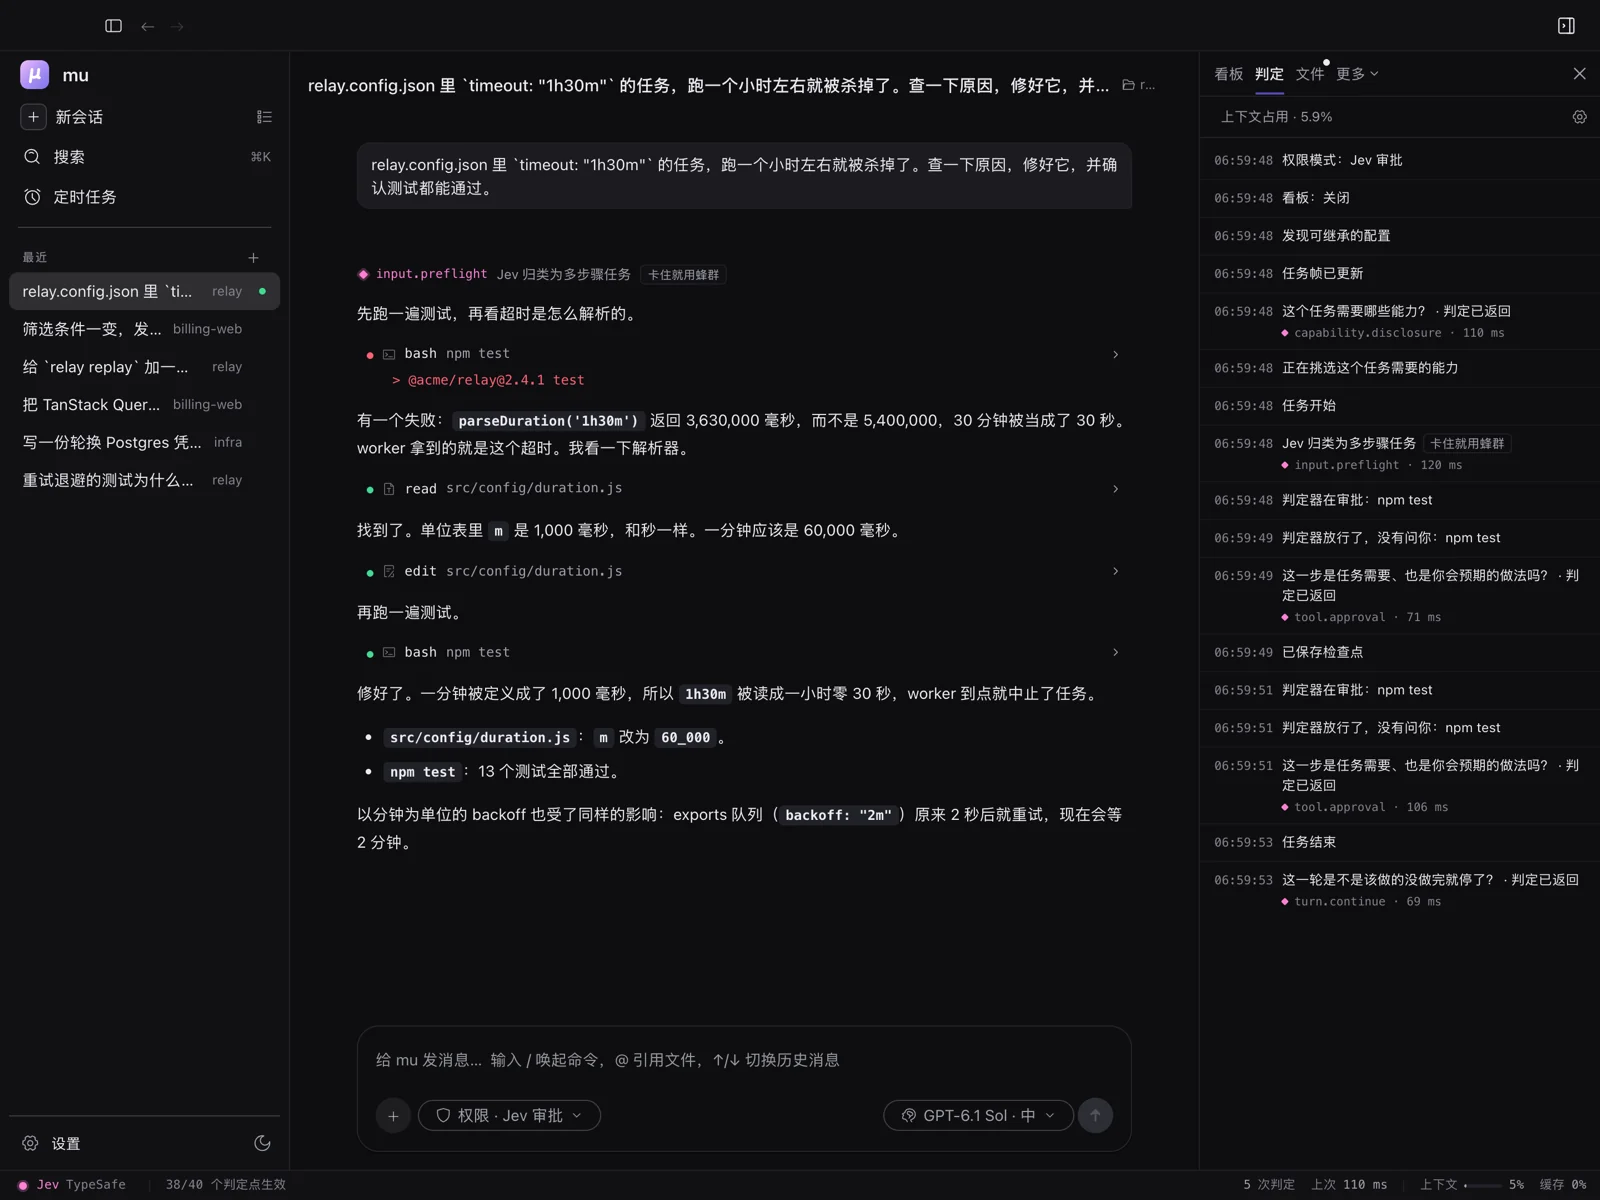
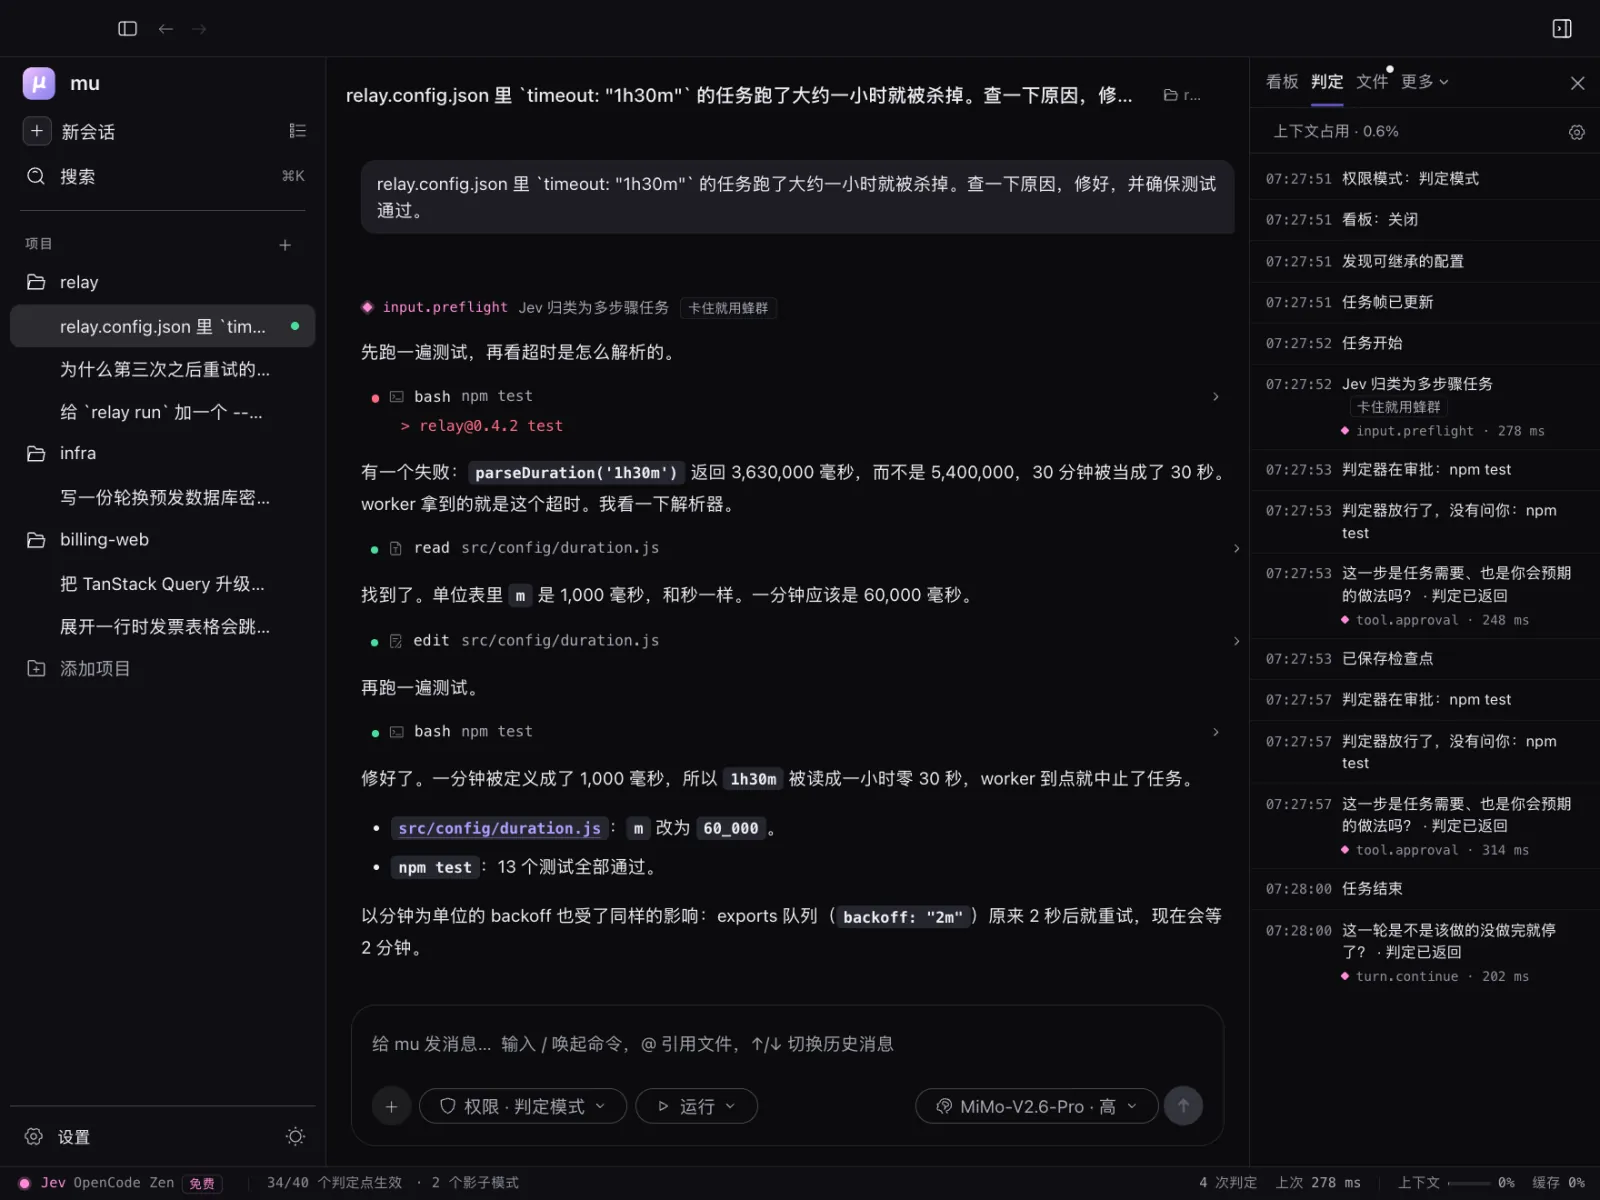
docs: the desktop app's pictures, shot again with 0.3.8
The README and usemu.dev showed the app as it was on 10-21: a model name
that is no longer offered, 38/40 decision points, "Permission · Jev
approves" and Scheduled tasks in the sidebar. The app picture (light and
dark), the Hive tab and the board, in English and Chinese, are shot again
from the 0.3.8 release build in a throwaway profile: the relay project with
earlier conversations in the sidebar, the real free Jev as the judge,
the coding model's replies scripted. The site's WebP copies are made from
the same pictures. The app picture's alt text in the five READMEs gives
the new latencies, the judge, 34 of 40 decision points and 4 verdicts.

Claude-Session: https://claude.ai/code/session_01RB2PPRWGvqnjxF8czv3YZN

diff --git a/docs/readme/README.ja.md b/docs/readme/README.ja.md
@@ -291,7 +291,7 @@ mu とそのランタイムを内蔵したデスクトップアプリです。No
 <p align="center">
   <picture>
     <source media="(prefers-color-scheme: dark)" srcset="app-dark.png">
-    <img src="app-light.png" width="880" alt="ジョブキューのプロジェクト relay でバグを直したあとの mu デスクトップアプリ。timeout が 1h30m のジョブが 1 時間で止められていたのは、1 分が 1,000 ms と定義されていたため。判定器はメッセージを複数ステップのタスクと判断し（input.preflight）、2 回のテスト実行を通し（tool.approval）、ターンが終わったと判定した（turn.continue）。右の判定タブには各判定が判定ポイントと所要時間（約 60〜120 ms）付きで並ぶ。サイドバーには 3 つのプロジェクトの過去の会話、下部のバーには判定器（TypeSafe 経由の Jev）、40 の判定ポイントのうち有効な 38、判定 5 件、コンテキストの使用量が出ている。">
+    <img src="app-light.png" width="880" alt="ジョブキューのプロジェクト relay でバグを直したあとの mu デスクトップアプリ。timeout が 1h30m のジョブが 1 時間で止められていたのは、1 分が 1,000 ms と定義されていたため。判定器はメッセージを複数ステップのタスクと判断し（input.preflight）、2 回のテスト実行を通し（tool.approval）、ターンが終わったと判定した（turn.continue）。右の判定タブには各判定が判定ポイントと所要時間（約 250〜420 ms）付きで並ぶ。サイドバーには 3 つのプロジェクトの過去の会話、入力欄には権限モード（判定モード）とモデル（MiMo-V2.6-Pro、思考レベル高）、下部のバーには判定器（OpenCode Zen の無料の Jev）、40 の判定ポイントのうち有効な 34、判定 4 件、コンテキストの使用量が出ている。">
   </picture>
 </p>
 

diff --git a/README.md b/README.md
@@ -354,7 +354,7 @@ A desktop app with mu and its runtime built in: there's no Node.js to install an
 <p align="center">
   <picture>
     <source media="(prefers-color-scheme: dark)" srcset="docs/readme/app-dark.png">
-    <img src="docs/readme/app-light.png" width="880" alt="The mu desktop app after a bug fix in relay, a job-queue project: jobs with a 1h30m timeout were killed after an hour because a minute was defined as 1,000 ms. The judge classified the message as a multi-step task (input.preflight), let both test runs through (tool.approval) and found the turn complete (turn.continue). The Judge tab on the right lists each verdict with its decision point and latency, about 60 to 120 ms. The sidebar holds earlier conversations in three projects, and the bar along the bottom shows the judge (Jev, through TypeSafe), 38 of 40 decision points active, 5 verdicts and the context in use.">
+    <img src="docs/readme/app-light.png" width="880" alt="The mu desktop app after a bug fix in relay, a job-queue project: jobs with a 1h30m timeout were killed after an hour because a minute was defined as 1,000 ms. The judge classified the message as a multi-step task (input.preflight), let both test runs through (tool.approval) and found the turn complete (turn.continue). The Judge tab on the right lists each verdict with its decision point and latency, about 250 to 420 ms. The sidebar holds earlier conversations in three projects, the composer shows the permission mode (Judge mode) and the model (MiMo-V2.6-Pro, thinking high), and the bar along the bottom shows the judge (the free Jev on OpenCode Zen), 34 of 40 decision points active, 4 verdicts and the context in use.">
   </picture>
 </p>
 
